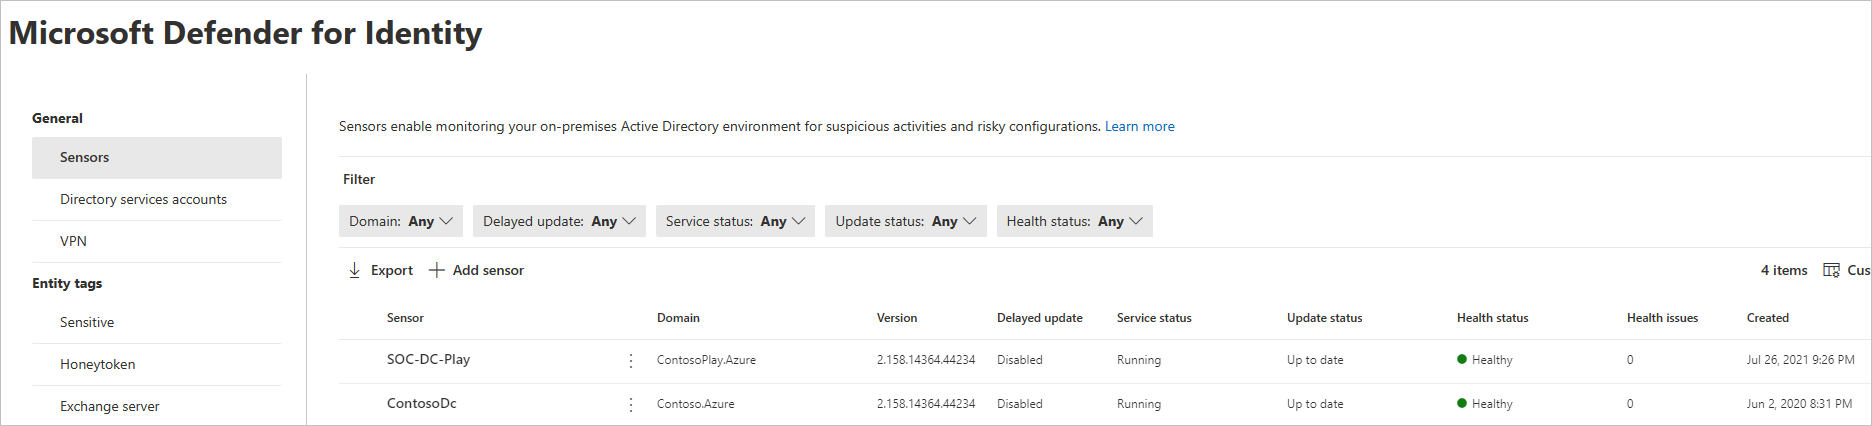
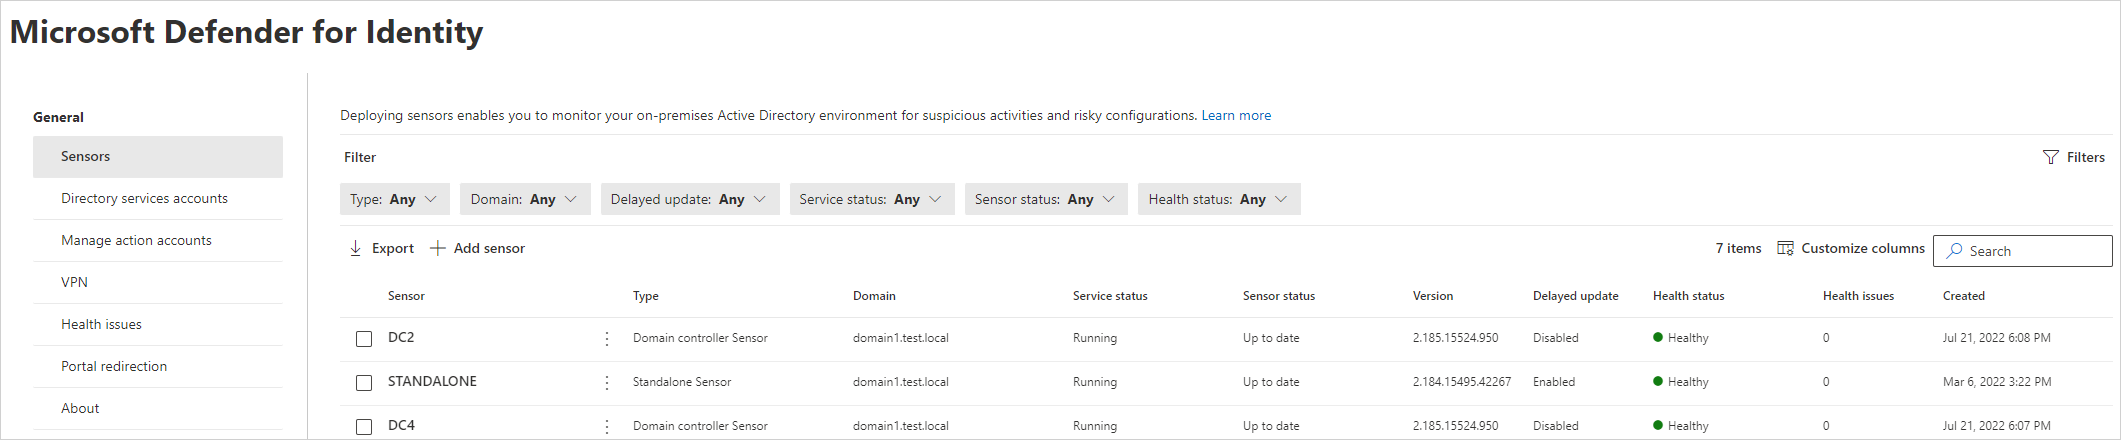
sensor status

diff --git a/ATPDocs/configure-sensor-settings.md b/ATPDocs/configure-sensor-settings.md
@@ -17,7 +17,7 @@ After the [!INCLUDE [Product short](includes/product-short.md)] sensor is instal
 
    :::image type="content" source="media/settings-identities.png" alt-text="The option of Identities on the Settings page" lightbox="media/settings-identities.png":::
 
-1. Select the **Sensors** page, which displays all of your Defender for Identity sensors. For each sensor, you'll see its name, its domain membership, the version number, if updates should be delayed, the service status, update status, health status, the number of health issues, and when the sensor was created.
+1. Select the **Sensors** page, which displays all of your Defender for Identity sensors. For each sensor, you'll see its name, its domain membership, the version number, if updates should be delayed, the service status, sensor status, health status, the number of health issues, and when the sensor was created.
 
     [![Sensor page.](media/sensor-page.png)](media/sensor-page.png#lightbox)
 

diff --git a/ATPDocs/sensor-settings.md b/ATPDocs/sensor-settings.md
@@ -15,7 +15,7 @@ This article explains how to configure and manage Microsoft Defender for Identit
 
     ![Go to Settings, then Identities.](media/settings-identities.png)
 
-1. Select the **Sensors** page, which displays all of your Defender for Identity sensors. For each sensor, you'll see its name, its domain membership, the version number, if updates should be delayed, the service status, update status, health status, the number of health issues, and when the sensor was created.
+1. Select the **Sensors** page, which displays all of your Defender for Identity sensors. For each sensor, you'll see its name, its domain membership, the version number, if updates should be delayed, the service status, sensor status, health status, the number of health issues, and when the sensor was created.
 
     [![Sensor page.](media/sensor-page.png)](media/sensor-page.png#lightbox)
 
